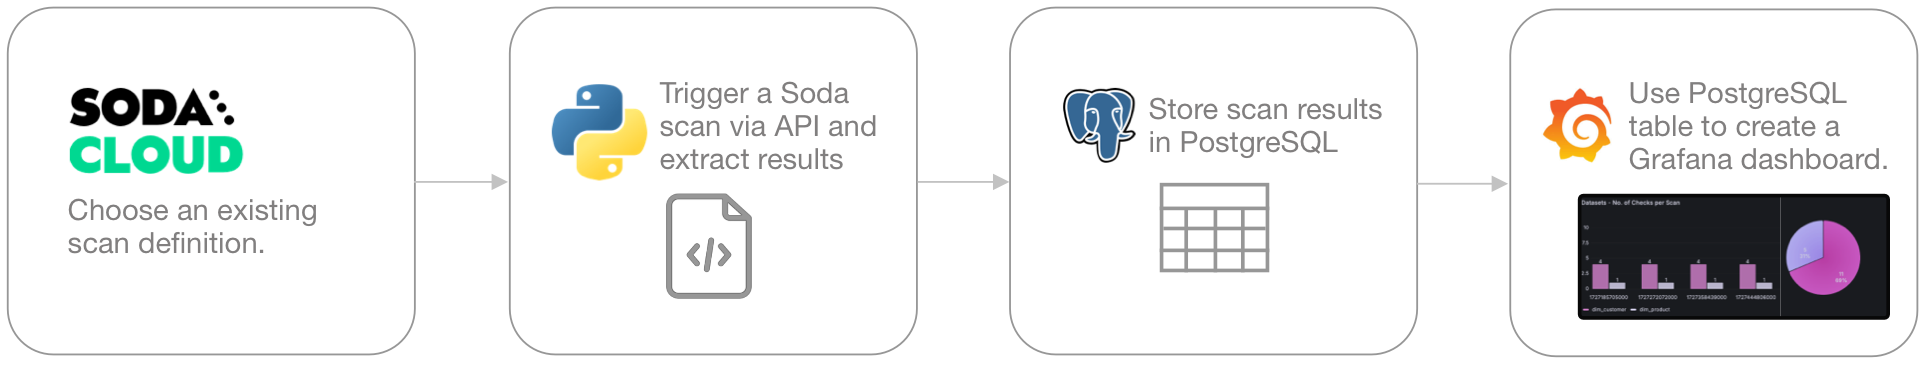
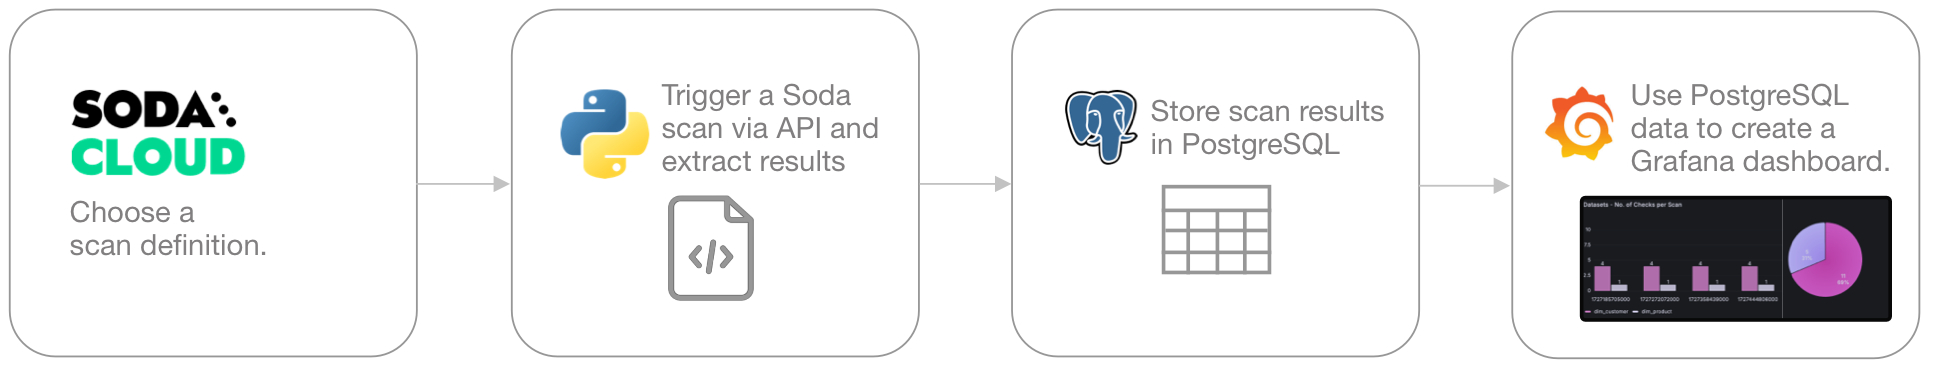
minor edits

diff --git a/api-docs/public-api-to-grafana.md b/api-docs/public-api-to-grafana.md
@@ -8,7 +8,7 @@ parent: Use case guides
 # Build a Grafana dashboard 
 *Last modified on {% last_modified_at %}*
 
-This guide offers an example for building a data quality reporting dashboard using the Soda Cloud API and Grafana. Such a dashboard enables data engineers to monitor the status of Soda scans and capture and display check results. 
+This guide offers an example of how to create a data quality reporting dashboard using the Soda Cloud API and Grafana. Such a dashboard enables data engineers to monitor the status of Soda scans and capture and display check results. 
 
 Use the [Soda Cloud API]({% link api-docs/public-cloud-api-v1.md %}) to trigger data quality scans and extract metadata from your Soda Cloud account, then store the metadata in PostgreSQL and use it to customize visualized data quality results in Grafana.
 
@@ -27,11 +27,11 @@ Use the [Soda Cloud API]({% link api-docs/public-cloud-api-v1.md %}) to trigger 
 ## Prerequisites
 * access to a <a href="https://grafana.com/" target="_blank">Grafana account</a>
 * Python 3.8, 3.9, or 3.10
-* familiarity with Python, with Python library intreactions with APIs
+* familiarity with Python, with Python library interactions with APIs
 * access to a PostgreSQL data source
 * a Soda Cloud account; see [Get started]({% link soda-agent/managed-agent.md %})
 * permission in Soda Cloud to access dataset metadata; see [Manage dataset roles]({% link soda-cloud/roles-dataset.md %})
-* at least one no-code check associated with a scan definition in Soda Cloud; see [Use no-code checks]({% link soda-cl/soda-cl-overview.md %}#define-sodacl-checks)
+* at least one agreement or no-code check associated with a scan definition in Soda Cloud; see [Use no-code checks]({% link soda-cl/soda-cl-overview.md %}#define-sodacl-checks)
 
 
 ## Choose a scan definition
@@ -50,17 +50,19 @@ See also: [Trigger a scan via API]({% link soda-library/run-a-scan.md %}#trigger
 
 ## Prepare to use the Soda Cloud API
 
-1. As per best practice, set up a new Python virtual environment so that you can keep your projects isolated and avoid library clashes. The example below uses the built-in venv module to create, then activate, a virtual environment named `soda-grafana`.  (Run `deactivate` to close the virtual environment when you wish.)<br />
+1. As per best practice, set up a new Python virtual environment so that you can keep your projects isolated and avoid library clashes. The example below uses the built-in venv module to create, then navigate to and activate, a virtual environment named `soda-grafana`.  Run `deactivate` to close the virtual environment when you wish.<br />
     ```shell
     python3 -m venv ~/venvs/soda-grafana
 
-    source ~/venvs/soda-grafana
+    cd venvs
+
+    source soda-grafana/bin/activate
     ```
 2. Run the following command to install the requests libraries in your virtual environment that you need to connect to Soda Cloud API endpoints. <br />Because this exercise moves the data it extracts from your Soda Cloud account into a PostgreSQL data source, it requires the `psycopg2` library. Alternatively, you can list and save all the requirements in a `requirements.txt` file, then install them from the command-line using `pip install -r requirements.txt`. If you use a different type of data source, find a corresponding plugin, or check SQLAlchemy's built-in database compatibility.
 ```shell
 pip install requests psycopg2
 ```
-3. In your working directory, create a new file named `apiscan.py`. Paste the following contents into the file to define an ApiScan class, which you will use to interact with the Soda Cloud API.
+3. In the same directory, create a new file named `apiscan.py`. Paste the following contents into the file to define an ApiScan class, which you will use to interact with the Soda Cloud API.
     ```python
     import os
     import requests
@@ -109,12 +111,12 @@ pip install requests psycopg2
 * `SODA_URL`: use `https://cloud.soda.io/api/v1/` or `https://cloud.us.soda.io/api/v1/` as the value, according the region in which you created your Soda Cloud account.
 * `API_KEY` and `API_SECRET`: see [Generate API keys]({% link soda-cloud/api-keys.md %}#generate-api-keys-for-use-with-soda-library-or-a-soda-cloud-api)<br />
         ```shell
-        # Soda Cloud API, used in apiscan.py
+        # Soda Cloud API keys, used in apiscan.py
         SODA_URL = https://cloud.soda.io/api/v1/
         API_KEY = xxx
         API_SECRET = xxx
 
-        # PostgreSQL, used in main.py
+        # PostgreSQL access credentials, used in main.py
         HOST = host_name
         PG_USER = user_login
         PG_PASSWORD = user_pass
@@ -124,7 +126,7 @@ pip install requests psycopg2
 
 **Problem:** You get an error that reads, "psycopg2 installation fails with error: metadata-generation-failed , and suggestion If you prefer to avoid building psycopg2 from source, please install the PyPI 'psycopg2-binary' package instead."
 
-**Solution:** As suggested, install the binary pacakge instead, using `pip install psycopg2-binary`.
+**Solution:** As suggested, install the binary package instead, using `pip install psycopg2-binary`.
 
 
 ## Trigger and monitor a Soda scan
@@ -135,7 +137,6 @@ pip install requests psycopg2
 * initializes an `ApiScan` object as `ascan`, uses the object to trigger a scan with `scan_definition` as a parameter which, in this case, is `grafanascan0` 
 * stores the scan `id` as a variable
 * checks the state of the scan every 10 seconds, then only when it is in a completion state (`completedWithErrors`, `completedWithFailures`, `completedWithWarnings`, or `completed`), stores the scan results as variable `r`.<br />
-
 {% include code-header.html %}
 ```python
 from apiscan import ApiScan
@@ -202,10 +203,12 @@ for check in r["checks"]:  ### find scanned check in all checks from api
 ## Process scan results into a PostgreSQL data source
 The following example code serves as reference for adding data to a PostgreSQL data source. Replace it if you intend to store scan results in another type of data source.
 
-To the `main.py` file, add the following code which:
+1. To the `main.py` file, add the code below which:
 * connects to a PostgreSQL data source, using the psycopg2 library
 * creates a table in the data source in which to store scan results, if one does not already exist
-* processes checks list of dicts, and inserts them into table of scan results
+* processes the list of dicts, and inserts them into table of scan results
+2. From the command-line, run `python3 main.py`.
+
 {% include code-header.html %}
 ```python
 # POSTGRES / SQL
@@ -261,7 +264,7 @@ print(f"Scan processed to PostgreSQL# !")
 ## Visualize scan results in a Grafana dashboard
 
 1. Log into your Grafana account, select My Account, then launch Grafana Cloud.
-2. Follow Grafana's <a href="https://grafana.com/docs/grafana-cloud/connect-externally-hosted/data-sources/postgres/" target="_blank">PostgreSQL data source</a> instructions to add your data source with the check results.
+2. Follow Grafana's <a href="https://grafana.com/docs/grafana-cloud/connect-externally-hosted/data-sources/postgres/" target="_blank">PostgreSQL data source</a> instructions to add your data source which contains the Soda check results.
 3. Follow Grafana's <a href="https://grafana.com/docs/grafana-cloud/visualizations/dashboards/build-dashboards/create-dashboard/" target="_blank"> Create a dashboard</a> instructions to create a new dashboard. Use the following details for reference in the Edit panel for Visualizations.
 * In the Queries tab, configure a Query using Builder or Code, then Run query on the data source. Toggle the Table view at the top to see Query results.
 * In the Transformations tab, create, edit, or delete Transformations that transform Query results into the data and format that Visualization needs. 

diff --git a/soda/use-case-guides.md b/soda/use-case-guides.md
@@ -27,7 +27,8 @@ Use the following How tos for practical advice, examples, and instructions for u
 
 | How to | Description | [Soda product]({% link soda/product-overview.md %}) <br/>requirements |
 | ----- | ----------- | ------------ |
-| [Build a customized dashboard]({% link api-docs/reporting-api-to-overview-dashboards.md %}) | Learn how to build a customized data quality reporting dashboard in Sigma using the Soda Cloud API.| Soda Library<br /> Soda Cloud |
+| [Build a Sigma dashboard]({% link api-docs/reporting-api-to-overview-dashboards.md %}) | Learn how to build a customized data quality reporting dashboard in Sigma using the Soda Cloud API.| Soda Library<br /> Soda Cloud |
+| [Build a Grafana dashboard]({% link api-docs/public-api-to-grafana.md %}) | Learn how to build a customized data quality reporting dashboard in Grafana using the Soda Cloud API.| Soda Cloud |
 | [Invoke Soda in Databricks]({% link soda/quick-start-databricks.md %}) | Learn how to invoke Soda data quality tests in a Databricks notebook. | Soda Library<br /> Soda Cloud |
 | [Use a Secrets Manager]({% link soda/quick-start-secrets.md %}) | Learn how to set up a Soda Agent to use an External Secrets Manager to retrieve frequently-rotated data source passwords.| Soda Cloud<br /> Self-hosted Agent |
 | [Generate API keys]({% link soda-cloud/api-keys.md %}) | Learn how to use Soda Cloud API keys to securely communicate with other entities such as Soda Library and self-hosted Soda Agents, and to provide secure access to Soda Cloud via API. | Soda Cloud |
